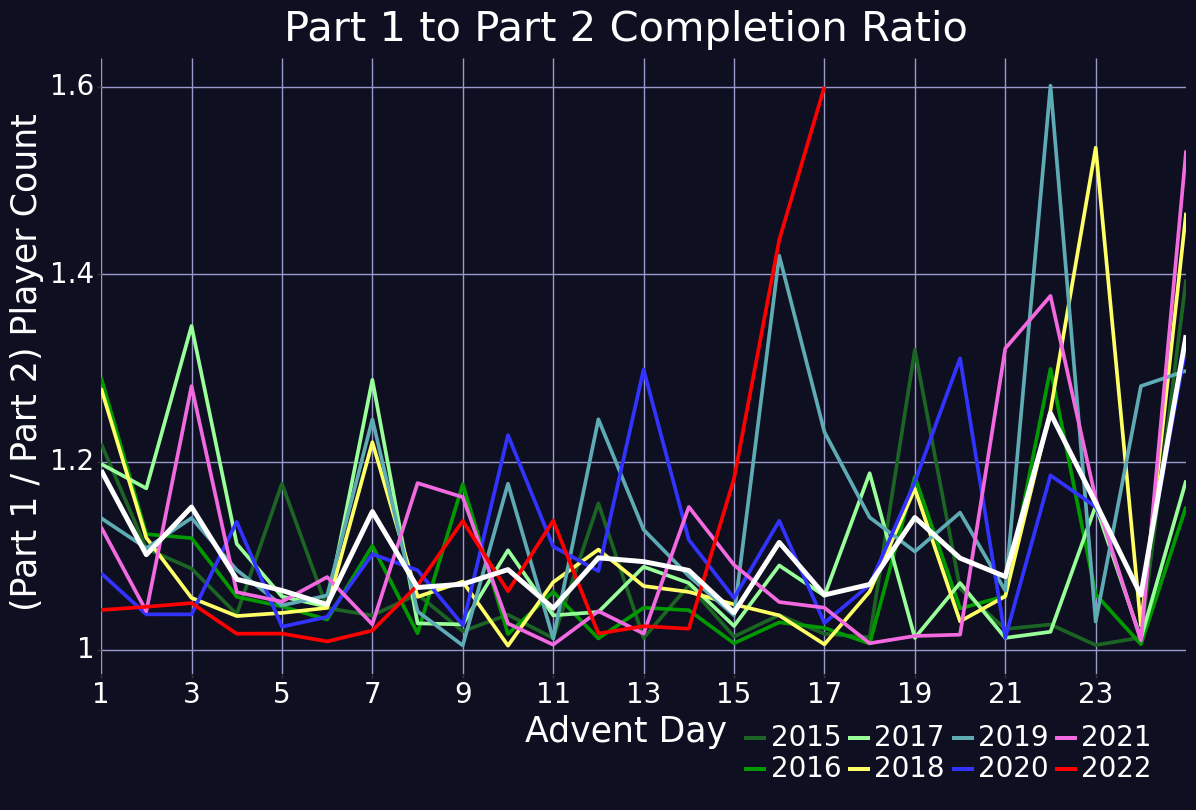
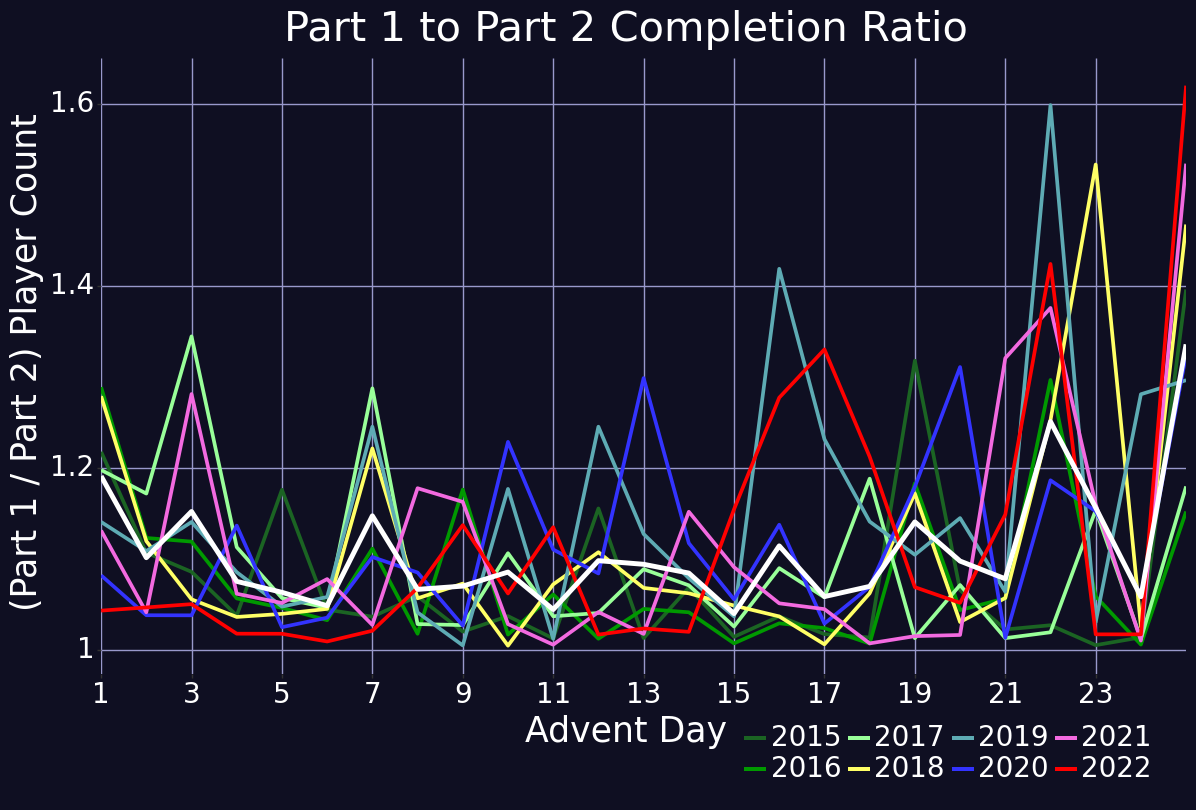
Updated aoc article, likely the final update.

Changed region(s): [[0.0309, 0.0926, 1.0, 0.8025], [0.0619, 0.463, 0.0928, 0.5247], [0.7425, 0.7716, 0.7734, 0.8025]]

diff --git a/projects/aoc_2022_stats/aoc_2022_stats.html b/projects/aoc_2022_stats/aoc_2022_stats.html
@@ -30,12 +30,10 @@
       <p>I have done a number of programming puzzles but I find that they incentivize quick and dirty solutions to just get to the next one.  The forced slow pace of a single two part puzzle per day allows you to take time and not feel forced to create the bare minimum.</p>
       <p>Besides the actual puzzles I was intrigued to see that there are <a href="https://www.adventofcode.com/2022/leaderboard">Leaderboard</a> and <a href="https://www.adventofcode.com/2022/stats">Stats</a> pages which provide puzzle completion times and puzzle completion counts for each day since the calendar began in <a href="https://adventofcode.com/2015">2015</a>.  I don&#39;t have much else to say here but I have had some fun with numbers below.</p>
 
-      <p style="margin-top: 3rem; margin-bottom: 3rem">I plan to periodically update the plots when I feel like it and add any thoughts. Last updated 2022-12-18</p>
       <p>A consistent colour scheme is kept for years through the plots.  This year, <a href="https://adventofcode.com/2022">2022</a>, is red and the mean of all of the results is white.  Completion of the first part of the puzzle is represented by the solid line and the second part is represented by the dashed line.</p>
 
       <h2 class="proj">Total Completions</h2>
       <hr class="fade-left">
-      
       <img src="/projects/aoc_2022_stats/assets/PlayerCountMacro.png" alt="PlayerCountMacro Plot" style="margin-left: auto; margin-right: auto;">
       <ul>
         <li>The white &#39;mean&#39; line represents the average decline in players multiplied by the players who completed the first puzzle in 2022.</li>
@@ -45,16 +43,18 @@
             <li>Though this 'non-recovery' will likely diminish with time as people complete puzzles in future years.</li>
           </ul>
         </li>
-        <li><a href="https://adventofcode.com/2022/day/16">Day 16</a> was followed by a similarly difficult <a href="https://adventofcode.com/2022/day/17">day 17</a> which continued the participation decline.  It will be interesting to see if players return to try the remainder of the challenges or lose motivation.</li>
+        <li><a href="https://adventofcode.com/2022/day/16">Day 16</a> was followed by an equally difficult <a href="https://adventofcode.com/2022/day/17">day 17</a> which continued the participation decline.  It will be interesting to see if players return to try the remainder of the challenges or lose motivation.</li>
+        <li>There was a slight recovery after the <a href="https://adventofcode.com/2022/day/16">day 16</a> and <a href="https://adventofcode.com/2022/day/17">day 17</a> gauntlet but the player count never recovered to the expected count.</li>
+        <li>The player count reached a sort of plateau after <a href="https://adventofcode.com/2022/day/16">day 16</a> and the player count dropped on difficult days but recovered the next day when the committed players returned.</li>
       </ul>
 
-      <h2 class="proj">Total Completions to Current Day</h2>
+      <h2 class="proj">Total Completions - Final Days</h2>
       <hr class="fade-left">
-      <img src="/projects/aoc_2022_stats/assets/PlayerCount.png" alt="PlayerCount Plot" style="margin-left: auto; margin-right: auto;">
+      <img src="/projects/aoc_2022_stats/assets/PlayerCountZoom.png" alt="PlayerCountMacro Plot" style="margin-left: auto; margin-right: auto;">
       <ul>
-        <li>This shows the progression until the current day, with time this will match the previous plot.</li>
+        <li>This is just a focus on the final half of the graph above.</li>
       </ul>
-      
+
       <h2 class="proj">Normalized Player Retention</h2>
       <hr class="fade-left">
       <img src="/projects/aoc_2022_stats/assets/NormalizedPlayerRetentionMacro.png" alt="NormalizedPlayerRetentionMacro Plot" style="margin-left: auto; margin-right: auto;">
@@ -63,13 +63,14 @@
         <li>This year was going really well but began to drop below the average on day 9, mostly due to the difficult <a href="https://adventofcode.com/2022/day/7">day 7</a> puzzle.</li>
         <li>Note that the first year(2015) represented by the dark green line is abnormally high, likely due to the smaller beginning population and fewer casuals just dropping by for the first puzzle and forgetting about it.</li>
         <li>The difficultly of both the <a href="https://adventofcode.com/2022/day/16">day 16</a> and <a href="https://adventofcode.com/2022/day/17">day 17</a> challenges are highlighted here as the normalized participation is the lowest ever for the given advent day.  Nearly lower than the minimum ending participation.</li>
+        <li>Similar conclusions can be drawn from the normalized player plots but it is a bit more clear that <a href="https://adventofcode.com/2022/day/16">day 16</a> and <a href="https://adventofcode.com/2022/day/17">day 17</a> had a larger than average impact on the player count.  The normalized player count is fighting for the second lowest for the last 10 days.</li>
       </ul>
 
-      <h2 class="proj">Normalized Player Retention to Current Day</h2>
+      <h2 class="proj">Normalized Player Retention - Final Days</h2>
       <hr class="fade-left">
-      <img src="/projects/aoc_2022_stats/assets/NormalizedPlayerRetention.png" alt="NormalizedPlayerRetention Plot" style="margin-left: auto; margin-right: auto;">
+      <img src="/projects/aoc_2022_stats/assets/NormalizedPlayerRetentionZoom.png" alt="NormalizedPlayerRetentionMacro Plot" style="margin-left: auto; margin-right: auto;">
       <ul>
-        <li>This just shows player retention until the current day, with time this will match the previous plot.</li>
+        <li>This is just a focus on the final half of the graph above.</li>
       </ul>
 
       <h2 class="proj">Puzzle Part Completion Ratio</h2>
@@ -81,6 +82,7 @@
         <li>I suspect the large spike on the 25<sup>th</sup> is a result of people not wanting to commit too much time on the holiday though it could be a significantly more difficult second part.</li>
         <li>So far in 2022 the second part has been relatively similar to the first part but it seems the common factor / <a href="https://en.wikipedia.org/wiki/Modulo_operation">modulo</a> trick of <a href="https://adventofcode.com/2022/day/11">day 11</a> caught a few people out.</li>
         <li>Notable completion ratios for both <a href="https://adventofcode.com/2022/day/16">day 16</a> and <a href="https://adventofcode.com/2022/day/17">day 17</a> which can be explained by their difficulty.  Note that the ratio for <a href="https://adventofcode.com/2022/day/17">day 17</a> should decrease as days pass, the <a href="https://adventofcode.com/2022/day/16">day 16</a> ratio has dropped significantly since yesterday.</li>
+        <li>The ratio stayed relatively low except for another spike on the 22 which is typically the day with the most difficult puzzle.</li>
       </ul>
       <p>These next plots include times that are pulled from the top 100 leaderboards.  They are only representative of the absolute highest echelon of contendors but it is all the data I can get.  The times are still useful indicators of the difficulty of the problems though time consuming problems don&#39;t always mean difficult problems.</p>
 
@@ -93,9 +95,10 @@
         <li>A clear trend of longer completion times can be seen as the calendar progresses, <strong>especially</strong> for the second part of the puzzle.</li>
         <li>The short completion time on the 25th supports the idea that the final problems aren&#39;t difficult, people just don&#39;t get around to the second part.
           <ul>
-          <li>If <strong>all</strong> times were logged then the short average time on the final day could be attributed to only the quick and dedicated players completing the puzzle and bringing the average time down but since only the top 100 players are saved and they are all try-hards this is not a factor.</li>
-      </ul>
-      </li>
+            <li>If <strong>all</strong> times were logged then the short average time on the final day could be attributed to only the quick and dedicated players completing the puzzle and bringing the average time down but since only the top 100 players are saved and they are all try-hards this is not a factor.</li>
+          </ul>
+        </li>
+        <li>The completion times stay within normal ranges except <a href="https://adventofcode.com/2022/day/16">day 16</a> and <a href="https://adventofcode.com/2022/day/19">day 19</a>.  This is quite the feat that is achieved by the designer Eric Wastl.  I can't imagine being able to consistently create puzzles that (loosely) fit the story and are of appropriate difficulty.</li>
       </ul>
       
       <h2 class="proj">Completion Time 2022</h2>
@@ -105,6 +108,7 @@
         <li>This is an expanded view of the completion times for the year 2022.  The line is the average completion time of the top 100 while the ribbon shows the quickest and slowest of the top 100.</li>
         <li>The fastest completion times are just outrageous in the first days with automated submission and the use of ChatGPT.</li>
         <li><a href="https://adventofcode.com/2022/day/18">Day 18</a> provides some much needed reprieve after the demanding previous days.  I am curious if the completion numbers will recover with this simpler day or if previous days have irrevocably turned people away.</li>
+        <li>The first puzzle completion time of <a href="https://adventofcode.com/2022/day/19">day 19</a> quickly dashed hopes of easy puzzles and was quite anomalous, only matched by a few puzzles from 2021.</li>
       </ul>
 
       <h2 class="proj">Completion Time History</h2>
@@ -112,7 +116,7 @@
       <img src="/projects/aoc_2022_stats/assets/CompletionTimeMacro.png" alt="CompletionTimeMacro Plot" style="margin-left: auto; margin-right: auto;">
       <ul style="margin-bottom: 3rem">
         <li>This plot is identical to the previous plot but covers all years of the challenge since 2016.</li>
-        <li>It really shows how remarkably consistently there are at least 100 people that can complete the challenge in under 20 minutes.</li>
+        <li>It really shows how remarkably consistently there are at least 100 people that can complete at least the first challenge in under 20 minutes.</li>
       </ul>
 
 
